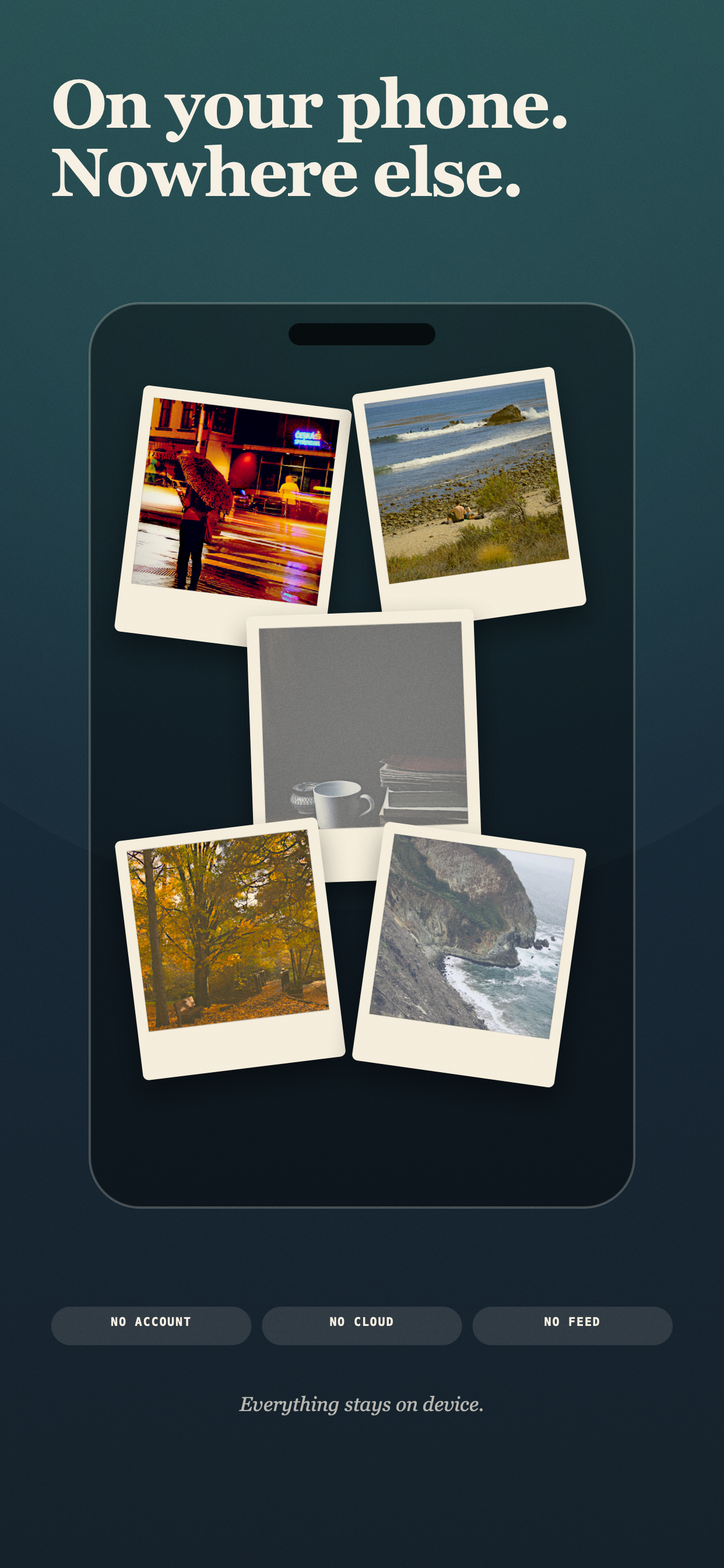
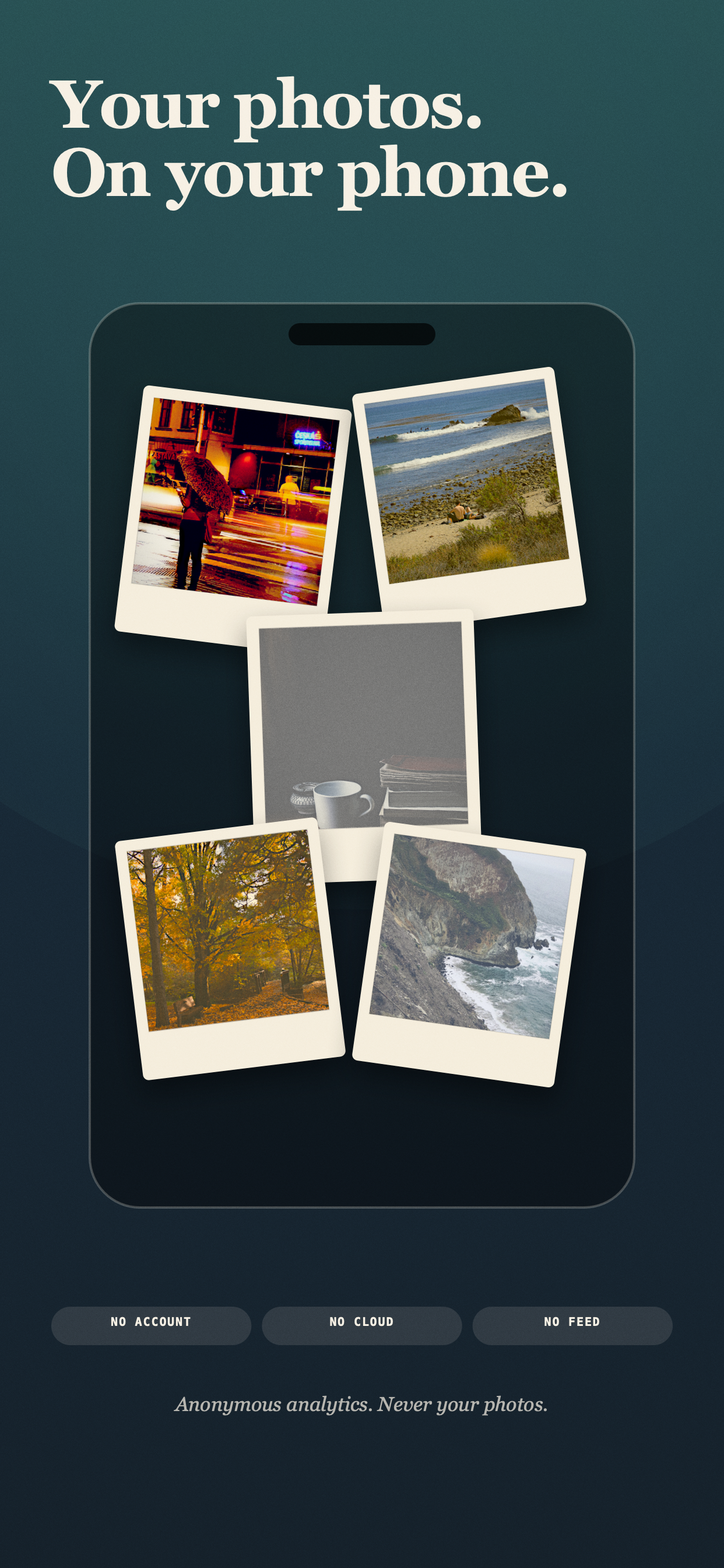
Correct App Store privacy screenshot

Changed region(s): [[0.0612, 0.0312, 0.7955, 0.1562], [0.2448, 0.875, 0.7343, 0.9062]]

diff --git a/mockups-appstore-v3/main.swift b/mockups-appstore-v3/main.swift
@@ -1144,7 +1144,7 @@ func v4Postcards() {
 // 07 — the category's clearest whitespace: private by architecture.
 func v4Private() {
     v4Background(V4.teal)
-    _ = v4Title("On your phone.\nNowhere else.", size: 116)
+    _ = v4Title("Your photos.\nOn your phone.", size: 116)
 
     let device = r(154, 520, 934, 1550)
     NSColor.black.withAlphaComponent(0.40).setFill()
@@ -1177,7 +1177,7 @@ func v4Private() {
         v4Pill(badge, x: margin + CGFloat(i) * (badgeW + gap), y: 2240, width: badgeW,
                fill: C.cream.withAlphaComponent(0.11), color: C.cream)
     }
-    text("Your photos stay on device.", r(margin, 2388, W - margin * 2, 70),
+    text("Anonymous analytics. Never your photos.", r(margin, 2388, W - margin * 2, 70),
          font: font("Georgia-Italic", 34), color: C.cream.withAlphaComponent(0.70), align: .center)
 }
 

diff --git a/mockups-appstore-v4/README.md b/mockups-appstore-v4/README.md
@@ -15,7 +15,7 @@ writes a 6.5-inch fallback set to `6.5-inch/`.
 | 4 | Twelve shots. Make them count. | Turn the daily limit into a physical roll of film. |
 | 5 | Your days, kept. Never posted. | Place the private archive inside an open drawer. |
 | 6 | Four ways to send the moment. | Show every real postcard treatment. |
-| 7 | On your phone. Nowhere else. | Give privacy its own proof screen. |
+| 7 | Your photos. On your phone. | Explain local photo storage without obscuring anonymous analytics. |
 
 The v4 set shares the proven rendering engine in `mockups-appstore-v3/main.swift`
 and still compiles against the shipping film-stock catalog and grade pipeline.
